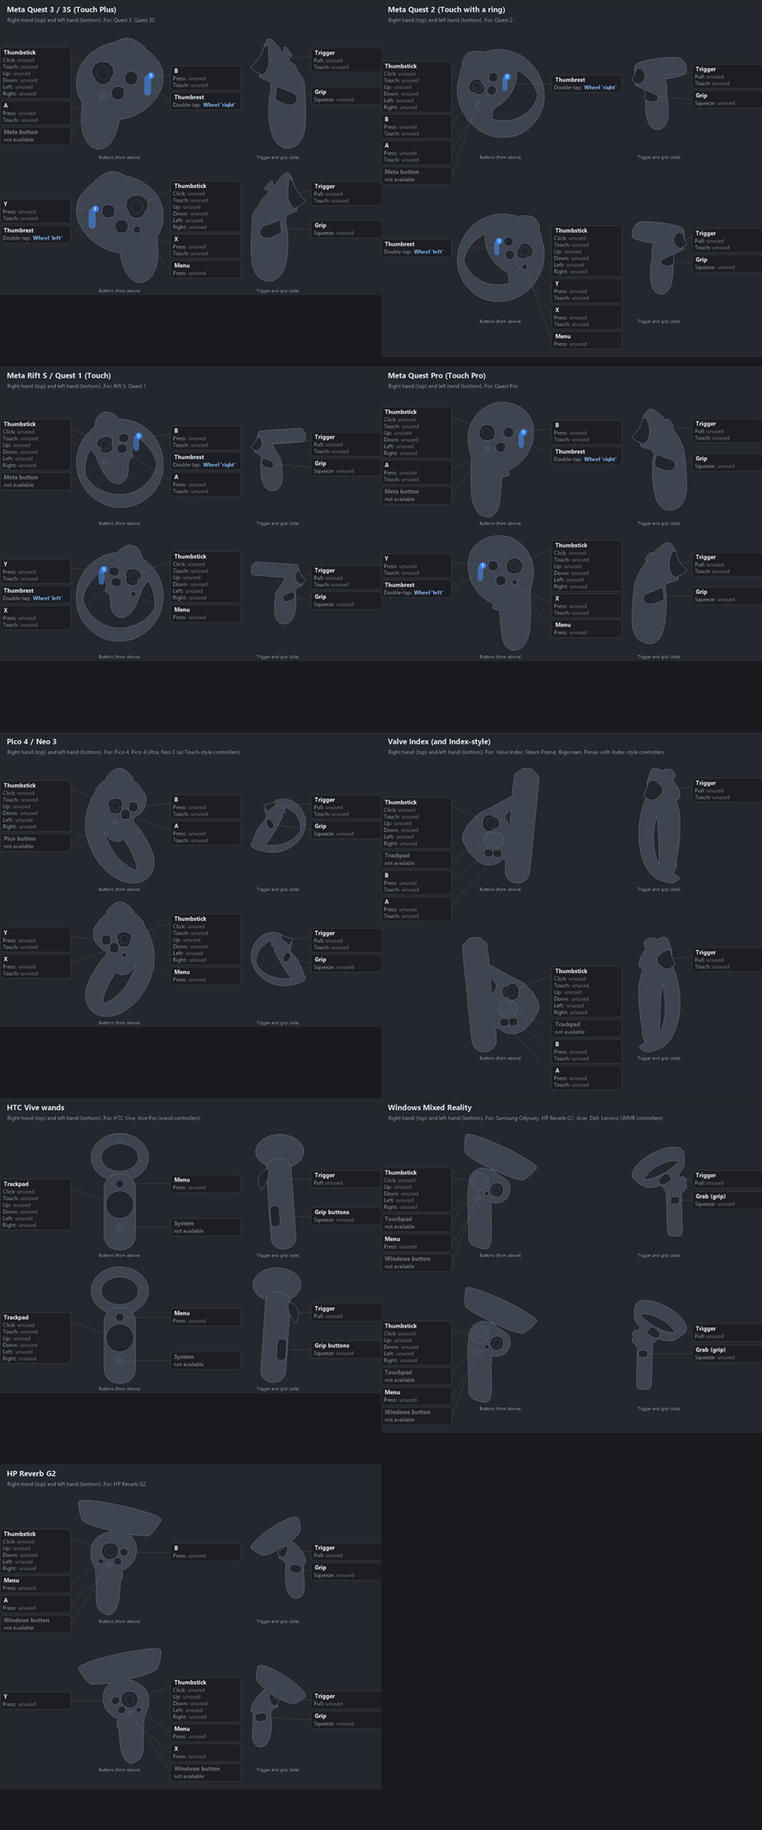
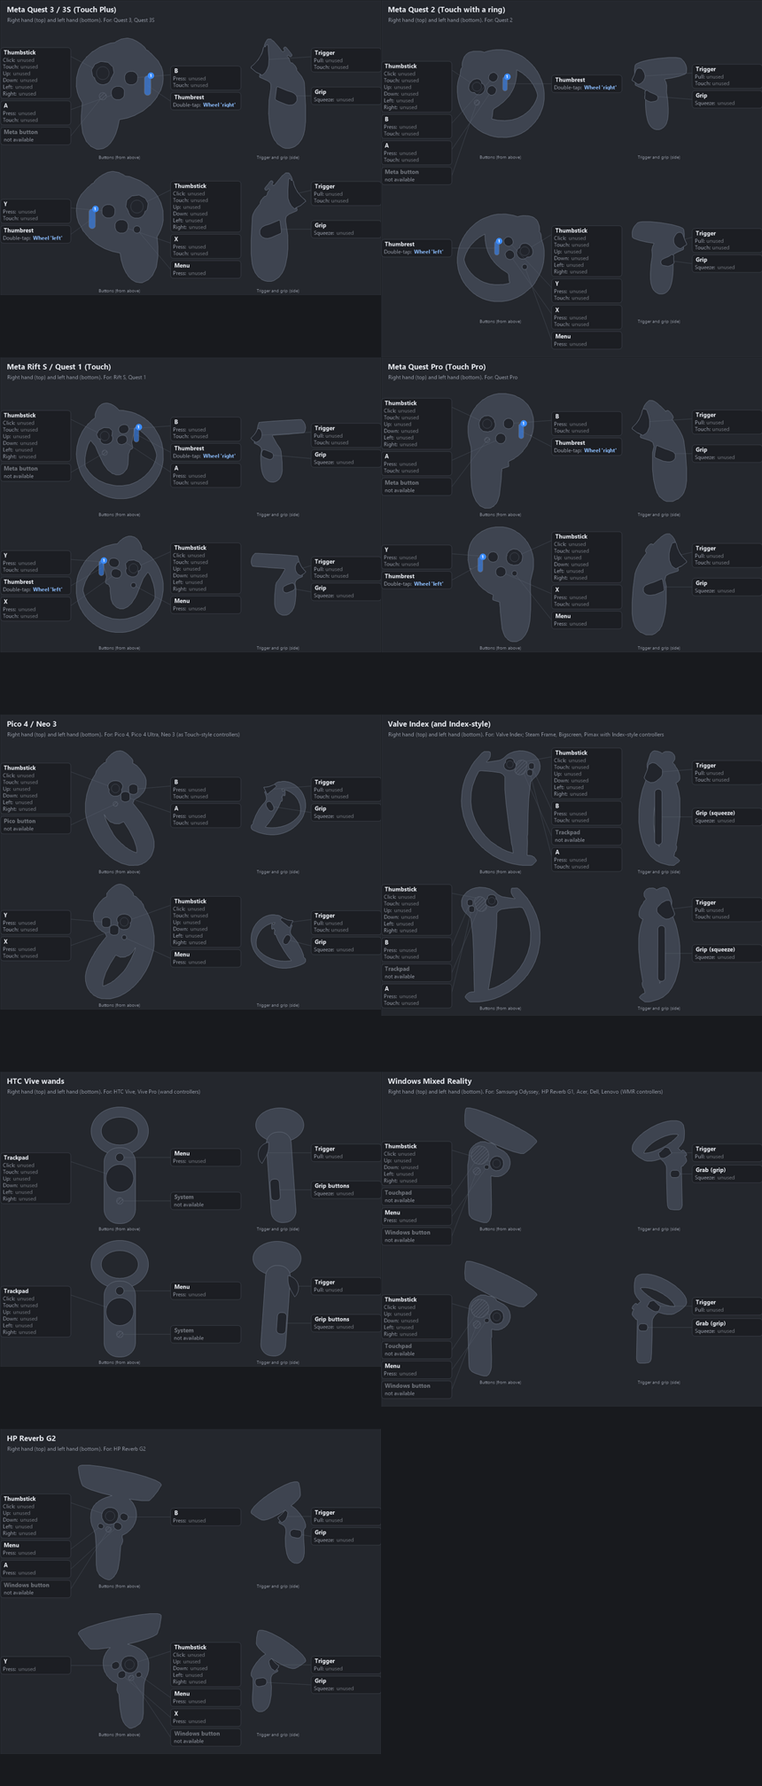
Controller pictures: the Index pictured across the controller (head up, handle down, strap beside it), its grip estimated along the handle; the tool writes nothing unless every model is there

diff --git a/editor/ControllerSilhouettes.g.cs b/editor/ControllerSilhouettes.g.cs
@@ -114,23 +114,25 @@ public static partial class ControllerSilhouettes
                 new("grip", ControllerView.Side, new float[][] { new float[] { 44.1f, 115.6f, 46.0f, 115.6f, 47.1f, 116.0f, 49.4f, 117.7f, 52.0f, 121.6f, 54.4f, 126.1f, 55.2f, 129.3f, 55.0f, 132.1f, 53.9f, 134.1f, 51.6f, 135.8f, 50.3f, 136.2f, 48.1f, 136.2f, 45.5f, 135.0f, 43.2f, 132.8f, 39.1f, 126.3f, 38.5f, 124.0f, 38.5f, 120.5f, 39.3f, 119.3f, 39.3f, 118.8f, 41.0f, 116.9f } }, false),
                 new("system", ControllerView.Top, new float[][] { new float[] { 95.59f, 121.05f, 95.418f, 122.355f, 94.915f, 123.57f, 94.114f, 124.614f, 93.07f, 125.415f, 91.854f, 125.918f, 90.55f, 126.09f, 89.246f, 125.918f, 88.03f, 125.415f, 86.986f, 124.614f, 86.185f, 123.57f, 85.682f, 122.355f, 85.51f, 121.05f, 85.682f, 119.746f, 86.185f, 118.53f, 86.986f, 117.486f, 88.03f, 116.685f, 89.246f, 116.182f, 90.55f, 116.01f, 91.854f, 116.182f, 93.07f, 116.685f, 94.114f, 117.486f, 94.915f, 118.53f, 95.418f, 119.746f } }, true),
             }),
-        ["index/left"] = new Silhouette(new float[][] { new float[] { 48.3f, 6.0f, 54.2f, 6.4f, 66.4f, 16.6f, 68.8f, 17.8f, 69.9f, 19.8f, 74.6f, 54.7f, 74.3f, 65.0f, 114.0f, 86.6f, 114.3f, 87.4f, 118.3f, 88.9f, 118.7f, 89.7f, 131.2f, 96.0f, 134.4f, 96.8f, 137.9f, 99.1f, 141.9f, 100.3f, 150.5f, 105.8f, 168.2f, 123.5f, 170.5f, 126.7f, 174.5f, 133.3f, 176.1f, 138.1f, 178.0f, 140.0f, 181.2f, 145.9f, 182.7f, 152.6f, 182.7f, 159.3f, 181.2f, 165.6f, 178.8f, 170.7f, 176.1f, 173.8f, 174.1f, 179.3f, 171.3f, 184.0f, 167.4f, 188.4f, 167.4f, 189.2f, 163.9f, 192.3f, 163.9f, 193.1f, 159.9f, 196.6f, 159.9f, 197.4f, 150.9f, 206.4f, 145.0f, 210.4f, 133.2f, 214.7f, 121.0f, 215.1f, 114.7f, 213.9f, 107.3f, 211.2f, 98.2f, 205.3f, 95.1f, 201.7f, 91.5f, 204.1f, 89.2f, 206.4f, 90.8f, 230.8f, 88.8f, 238.7f, 84.5f, 245.4f, 80.2f, 249.3f, 74.3f, 252.4f, 68.0f, 254.0f, 59.3f, 254.0f, 50.7f, 251.2f, 42.8f, 244.2f, 38.1f, 234.0f, 35.3f, 213.5f, 17.3f, 33.1f, 17.7f, 24.1f, 30.6f, 9.1f, 30.6f, 8.4f, 32.6f, 7.6f }, new float[] { 77.8f, 95.2f, 77.4f, 98.0f, 80.2f, 125.1f, 80.5f, 127.8f, 81.3f, 127.8f, 83.7f, 126.7f, 86.4f, 120.4f, 89.6f, 116.0f, 90.8f, 113.3f, 90.8f, 109.8f, 88.4f, 105.0f } },
+        ["index/left"] = new Silhouette(new float[][] { new float[] { 54.3f, 6.0f, 66.1f, 6.8f, 76.3f, 9.5f, 85.3f, 14.2f, 94.3f, 22.1f, 102.6f, 26.4f, 130.0f, 30.7f, 131.2f, 30.3f, 126.9f, 26.4f, 123.0f, 19.3f, 122.2f, 15.0f, 123.0f, 8.7f, 124.1f, 8.0f, 135.9f, 7.6f, 141.4f, 11.5f, 158.3f, 30.7f, 158.7f, 32.3f, 162.6f, 37.4f, 167.3f, 46.4f, 168.1f, 46.8f, 176.7f, 65.3f, 181.4f, 79.8f, 183.4f, 90.0f, 185.0f, 104.9f, 184.6f, 126.5f, 180.6f, 148.1f, 174.4f, 166.5f, 168.1f, 179.4f, 157.5f, 196.3f, 155.5f, 197.9f, 150.4f, 204.9f, 134.3f, 220.3f, 117.1f, 232.8f, 99.8f, 241.8f, 86.9f, 246.9f, 74.3f, 250.5f, 59.4f, 253.2f, 51.5f, 254.0f, 34.7f, 254.0f, 31.1f, 252.8f, 23.7f, 245.4f, 22.9f, 242.2f, 26.0f, 237.5f, 31.5f, 233.6f, 36.2f, 232.4f, 42.9f, 232.0f, 42.1f, 204.2f, 42.1f, 192.0f, 42.9f, 191.2f, 42.1f, 191.2f, 41.7f, 184.9f, 40.9f, 142.2f, 39.4f, 109.6f, 35.1f, 72.3f, 32.7f, 70.7f, 31.9f, 69.2f, 21.7f, 59.4f, 19.0f, 55.4f, 15.4f, 46.8f, 15.0f, 35.8f, 17.0f, 28.8f, 19.4f, 24.1f, 26.4f, 16.2f, 34.3f, 11.1f, 39.0f, 9.1f, 45.7f, 7.2f }, new float[] { 141.4f, 49.2f, 118.6f, 51.1f, 101.8f, 53.5f, 95.9f, 56.6f, 91.6f, 61.7f, 91.2f, 91.5f, 87.6f, 129.6f, 81.8f, 175.1f, 73.1f, 227.3f, 85.7f, 223.4f, 98.6f, 217.5f, 99.0f, 216.7f, 108.4f, 211.6f, 109.2f, 210.4f, 113.5f, 208.1f, 121.4f, 202.2f, 135.1f, 188.5f, 135.1f, 187.7f, 141.0f, 181.0f, 150.4f, 166.1f, 158.3f, 148.4f, 163.0f, 131.6f, 164.2f, 122.2f, 164.6f, 104.1f, 163.0f, 91.2f, 161.0f, 82.1f, 157.5f, 71.5f, 151.2f, 57.0f, 146.9f, 50.3f } },
             new float[][] { new float[] { 76.0f, 6.0f, 73.2f, 6.0f, 65.8f, 8.0f, 59.5f, 11.1f, 59.1f, 11.9f, 56.0f, 9.1f, 51.3f, 7.6f, 43.0f, 8.0f, 37.1f, 10.3f, 33.2f, 14.6f, 31.6f, 18.9f, 32.0f, 25.2f, 36.4f, 31.9f, 31.6f, 36.6f, 30.1f, 40.5f, 26.2f, 46.0f, 23.0f, 52.7f, 21.1f, 59.4f, 20.7f, 66.0f, 21.8f, 70.0f, 26.5f, 74.3f, 29.3f, 74.7f, 24.6f, 89.2f, 21.1f, 107.2f, 20.3f, 115.9f, 20.3f, 141.0f, 23.8f, 179.1f, 28.9f, 208.9f, 28.9f, 210.4f, 27.7f, 212.4f, 27.7f, 216.3f, 29.3f, 222.2f, 30.5f, 224.2f, 31.6f, 224.6f, 33.6f, 233.6f, 33.6f, 234.8f, 29.3f, 236.3f, 25.0f, 239.5f, 21.4f, 243.8f, 24.2f, 247.3f, 33.6f, 254.0f, 42.2f, 254.0f, 46.9f, 253.2f, 62.6f, 248.5f, 73.2f, 243.4f, 84.2f, 234.0f, 91.7f, 223.8f, 99.1f, 208.9f, 105.4f, 188.1f, 107.8f, 177.1f, 109.7f, 159.8f, 109.3f, 132.4f, 107.8f, 118.6f, 103.5f, 97.0f, 100.7f, 86.8f, 94.4f, 70.0f, 94.4f, 68.8f, 95.2f, 68.8f, 97.6f, 65.6f, 97.6f, 62.1f, 91.3f, 45.6f, 92.1f, 37.4f, 91.7f, 34.3f, 84.2f, 11.9f, 81.5f, 8.4f }, new float[] { 71.3f, 108.4f, 74.0f, 118.2f, 76.4f, 134.7f, 77.6f, 150.0f, 77.6f, 165.3f, 76.8f, 175.5f, 74.0f, 191.2f, 69.7f, 205.3f, 66.2f, 213.2f, 65.4f, 213.6f, 68.1f, 135.1f } },
             new SilhouettePart[] {
-                new("primary", ControllerView.Top, new float[][] { new float[] { 106.1f, 181.7f, 112.8f, 182.1f, 114.3f, 182.9f, 116.7f, 186.0f, 117.5f, 189.2f, 117.1f, 193.5f, 115.1f, 197.0f, 112.8f, 198.6f, 102.9f, 198.6f, 101.0f, 197.4f, 98.6f, 194.3f, 98.2f, 187.6f, 99.4f, 184.8f, 102.9f, 182.1f } }, false),
-                new("secondary", ControllerView.Top, new float[][] { new float[] { 123.0f, 180.5f, 130.5f, 180.5f, 133.6f, 182.1f, 134.8f, 183.6f, 136.0f, 186.4f, 136.0f, 191.9f, 134.8f, 194.7f, 132.8f, 196.6f, 130.9f, 197.4f, 121.8f, 197.4f, 118.3f, 194.7f, 116.7f, 190.3f, 117.1f, 186.0f, 120.2f, 181.7f } }, false),
-                new("thumbstick", ControllerView.Top, new float[][] { new float[] { 123.8f, 105.8f, 129.7f, 106.6f, 134.8f, 110.2f, 137.5f, 114.5f, 139.5f, 121.5f, 139.1f, 129.4f, 136.4f, 136.1f, 133.2f, 139.6f, 126.5f, 142.4f, 122.2f, 142.0f, 119.5f, 140.8f, 115.5f, 136.9f, 110.8f, 136.9f, 108.1f, 135.7f, 104.5f, 131.8f, 102.6f, 125.9f, 102.6f, 121.5f, 103.3f, 118.8f, 107.3f, 113.3f, 112.0f, 111.3f, 114.7f, 111.7f, 117.9f, 108.2f } }, false),
-                new("touchpad", ControllerView.Top, new float[][] { new float[] { 119.5f, 144.0f, 128.1f, 144.3f, 128.5f, 145.1f, 130.9f, 145.9f, 134.8f, 150.6f, 136.7f, 155.7f, 137.1f, 160.5f, 136.0f, 166.4f, 134.4f, 169.5f, 131.2f, 173.0f, 126.5f, 175.4f, 110.4f, 176.6f, 103.3f, 176.6f, 101.4f, 175.8f, 97.1f, 171.9f, 94.3f, 166.0f, 93.9f, 157.3f, 96.7f, 150.2f, 99.0f, 147.5f, 102.2f, 145.5f } }, false),
+                new("primary", ControllerView.Top, new float[][] { new float[] { 35.8f, 46.4f, 38.6f, 46.4f, 41.3f, 47.6f, 43.3f, 50.3f, 42.9f, 57.4f, 41.3f, 59.4f, 38.6f, 60.5f, 33.5f, 59.8f, 31.1f, 57.0f, 31.1f, 50.3f, 33.5f, 47.2f } }, false),
+                new("secondary", ControllerView.Top, new float[][] { new float[] { 31.5f, 32.3f, 36.6f, 32.7f, 39.8f, 36.2f, 39.8f, 42.1f, 38.6f, 44.5f, 37.0f, 45.6f, 31.1f, 46.0f, 27.6f, 42.9f, 27.6f, 35.8f, 28.8f, 33.9f } }, false),
+                new("thumbstick", ControllerView.Top, new float[][] { new float[] { 77.8f, 22.1f, 83.3f, 22.1f, 87.6f, 24.4f, 89.6f, 27.6f, 89.6f, 31.5f, 92.0f, 33.5f, 93.1f, 35.8f, 93.5f, 39.4f, 91.6f, 44.1f, 85.7f, 48.0f, 79.0f, 48.8f, 73.1f, 47.2f, 68.8f, 43.7f, 67.2f, 40.5f, 67.6f, 34.6f, 68.4f, 34.3f, 68.8f, 32.7f, 71.6f, 30.7f, 71.2f, 28.8f, 72.3f, 25.6f, 74.3f, 23.7f } }, false),
+                new("touchpad", ControllerView.Top, new float[][] { new float[] { 51.5f, 26.4f, 56.6f, 26.4f, 60.6f, 27.6f, 64.5f, 30.7f, 65.7f, 33.1f, 69.2f, 46.8f, 69.2f, 50.7f, 67.6f, 53.9f, 65.3f, 56.2f, 60.6f, 58.2f, 54.7f, 57.8f, 51.1f, 56.2f, 48.0f, 53.5f, 46.4f, 49.9f, 42.9f, 36.2f, 42.9f, 33.5f, 45.7f, 29.2f } }, false),
                 new("trigger", ControllerView.Side, new float[][] { new float[] { 85.0f, 34.3f, 79.9f, 34.6f, 70.1f, 39.7f, 60.3f, 49.9f, 59.5f, 53.1f, 59.9f, 59.0f, 63.4f, 63.7f, 71.3f, 70.7f, 77.6f, 74.3f, 79.5f, 74.7f, 85.8f, 74.3f, 93.6f, 70.0f, 96.8f, 67.2f, 97.6f, 65.6f, 97.6f, 62.1f, 91.3f, 45.6f, 89.7f, 38.2f, 87.0f, 35.0f } }, false),
+                new("grip", ControllerView.Side, new float[][] { new float[] { 77.646f, 149.11f, 77.372f, 203.212f, 76.568f, 205.152f, 75.289f, 206.818f, 73.623f, 208.097f, 71.682f, 208.901f, 69.6f, 209.175f, 67.517f, 208.901f, 65.577f, 208.097f, 63.91f, 206.818f, 62.632f, 205.152f, 61.828f, 203.212f, 61.554f, 201.129f, 61.828f, 95.008f, 62.632f, 93.067f, 63.91f, 91.401f, 65.577f, 90.122f, 67.517f, 89.318f, 69.6f, 89.044f, 71.682f, 89.318f, 73.623f, 90.122f, 75.289f, 91.401f, 76.568f, 93.067f, 77.372f, 95.008f } }, true),
             }),
-        ["index/right"] = new Silhouette(new float[][] { new float[] { 146.2f, 6.0f, 151.7f, 6.0f, 168.6f, 8.0f, 180.4f, 21.7f, 180.4f, 22.5f, 182.3f, 24.1f, 182.7f, 31.9f, 165.0f, 209.6f, 161.9f, 234.0f, 157.2f, 244.2f, 149.3f, 251.2f, 140.7f, 254.0f, 132.0f, 254.0f, 125.7f, 252.4f, 119.8f, 249.3f, 113.6f, 243.0f, 111.2f, 238.7f, 109.2f, 230.8f, 110.8f, 206.4f, 108.8f, 204.5f, 104.9f, 201.7f, 101.8f, 205.3f, 93.5f, 210.8f, 85.7f, 213.9f, 79.4f, 215.1f, 66.4f, 214.7f, 59.7f, 212.7f, 54.2f, 210.0f, 52.2f, 208.0f, 49.1f, 206.4f, 45.2f, 202.1f, 44.4f, 202.1f, 29.1f, 184.8f, 18.1f, 163.2f, 17.3f, 159.3f, 17.3f, 152.2f, 20.0f, 143.2f, 22.8f, 138.5f, 24.3f, 137.3f, 25.5f, 133.3f, 29.5f, 126.7f, 47.9f, 107.0f, 53.8f, 102.7f, 82.1f, 89.3f, 82.5f, 88.5f, 125.7f, 65.0f, 125.0f, 60.2f, 125.4f, 53.9f, 129.7f, 20.5f, 131.2f, 17.8f, 145.0f, 7.6f }, new float[] { 122.6f, 95.2f, 111.2f, 105.4f, 108.8f, 110.9f, 109.2f, 113.7f, 114.0f, 121.2f, 116.3f, 126.7f, 118.7f, 127.8f, 119.5f, 127.8f } },
+        ["index/right"] = new Silhouette(new float[][] { new float[] { 140.2f, 6.0f, 149.6f, 6.4f, 157.5f, 8.0f, 164.9f, 10.7f, 170.4f, 13.8f, 173.6f, 16.2f, 180.6f, 24.1f, 183.8f, 30.7f, 185.3f, 39.0f, 184.6f, 47.2f, 181.0f, 55.4f, 178.3f, 59.4f, 169.3f, 68.0f, 166.9f, 71.1f, 164.9f, 72.3f, 160.6f, 109.6f, 159.1f, 142.9f, 158.3f, 186.1f, 157.5f, 191.2f, 157.9f, 204.6f, 157.1f, 232.0f, 163.8f, 232.4f, 168.5f, 233.6f, 168.9f, 234.4f, 172.4f, 235.9f, 177.1f, 242.2f, 176.7f, 245.0f, 168.9f, 252.8f, 165.3f, 254.0f, 148.5f, 254.0f, 140.6f, 253.2f, 125.7f, 250.5f, 113.1f, 246.9f, 99.4f, 241.4f, 82.9f, 232.8f, 65.7f, 220.3f, 63.3f, 217.5f, 59.4f, 214.8f, 46.0f, 200.6f, 44.5f, 197.9f, 42.5f, 196.3f, 31.9f, 179.4f, 26.4f, 168.5f, 19.4f, 148.1f, 15.4f, 126.5f, 14.7f, 114.3f, 16.2f, 93.5f, 18.6f, 80.2f, 22.1f, 68.4f, 25.6f, 59.4f, 37.4f, 37.4f, 43.3f, 28.8f, 58.6f, 11.5f, 64.1f, 7.6f, 73.5f, 7.6f, 77.0f, 8.7f, 77.8f, 13.5f, 77.0f, 19.3f, 74.3f, 24.8f, 68.8f, 30.3f, 69.6f, 30.7f, 95.9f, 26.8f, 99.8f, 25.6f, 105.7f, 22.1f, 113.5f, 15.0f, 119.4f, 11.5f, 128.4f, 8.0f }, new float[] { 57.4f, 49.2f, 53.1f, 50.3f, 51.9f, 51.5f, 45.7f, 63.7f, 39.0f, 82.1f, 36.2f, 96.6f, 35.4f, 116.3f, 37.0f, 131.6f, 40.6f, 144.9f, 44.5f, 155.5f, 49.6f, 166.1f, 59.0f, 181.0f, 64.9f, 187.7f, 64.9f, 188.5f, 78.6f, 202.2f, 90.8f, 210.4f, 91.6f, 211.6f, 101.0f, 216.7f, 101.4f, 217.5f, 114.3f, 223.4f, 126.9f, 227.3f, 124.9f, 212.4f, 123.3f, 207.7f, 121.4f, 191.6f, 118.2f, 174.7f, 111.6f, 122.2f, 108.8f, 90.8f, 108.8f, 62.1f, 103.7f, 56.2f, 98.2f, 53.5f, 81.4f, 51.1f } },
             new float[][] { new float[] { 54.2f, 6.0f, 60.9f, 6.8f, 67.2f, 9.1f, 70.7f, 11.5f, 71.9f, 11.5f, 74.2f, 9.1f, 78.5f, 7.6f, 85.2f, 7.6f, 89.1f, 8.4f, 93.1f, 10.3f, 97.0f, 14.6f, 98.6f, 18.9f, 98.6f, 23.7f, 97.8f, 26.0f, 93.8f, 31.9f, 98.6f, 36.6f, 99.7f, 39.7f, 103.7f, 45.2f, 107.2f, 52.7f, 109.1f, 59.4f, 109.5f, 66.0f, 108.4f, 70.0f, 106.0f, 71.9f, 106.0f, 72.7f, 103.7f, 74.3f, 101.3f, 74.7f, 101.3f, 76.2f, 104.0f, 83.3f, 107.2f, 95.1f, 109.5f, 109.6f, 109.5f, 148.4f, 106.0f, 182.2f, 101.3f, 208.9f, 101.3f, 210.4f, 102.5f, 212.4f, 102.5f, 216.3f, 101.3f, 221.4f, 100.1f, 223.8f, 98.6f, 224.6f, 96.6f, 233.6f, 97.0f, 234.8f, 101.7f, 236.7f, 104.8f, 239.1f, 108.8f, 243.0f, 108.8f, 244.2f, 105.6f, 247.7f, 103.7f, 248.5f, 96.6f, 254.0f, 85.6f, 253.6f, 67.6f, 248.5f, 57.7f, 243.8f, 46.4f, 234.4f, 38.5f, 223.8f, 31.1f, 208.9f, 26.0f, 192.4f, 22.8f, 179.1f, 20.5f, 159.8f, 20.9f, 132.0f, 22.4f, 118.6f, 26.7f, 97.0f, 29.1f, 88.0f, 35.8f, 70.0f, 35.8f, 68.8f, 35.0f, 68.8f, 32.6f, 65.6f, 32.2f, 63.7f, 38.9f, 46.8f, 39.3f, 44.1f, 38.5f, 41.3f, 38.5f, 34.3f, 46.0f, 11.9f, 49.9f, 7.6f }, new float[] { 58.9f, 108.4f, 56.2f, 118.2f, 53.8f, 134.7f, 52.6f, 149.2f, 52.6f, 165.3f, 54.2f, 181.0f, 57.7f, 197.1f, 60.5f, 205.3f, 62.1f, 207.7f, 63.2f, 211.6f, 64.8f, 213.6f, 64.0f, 177.1f, 62.1f, 134.3f } },
             new SilhouettePart[] {
-                new("primary", ControllerView.Top, new float[][] { new float[] { 89.2f, 181.7f, 97.1f, 182.1f, 99.0f, 183.3f, 101.4f, 186.4f, 101.8f, 193.1f, 100.2f, 196.2f, 97.1f, 198.6f, 87.2f, 198.6f, 85.3f, 197.4f, 83.3f, 194.7f, 82.5f, 191.9f, 83.3f, 186.0f, 85.3f, 183.3f } }, false),
-                new("secondary", ControllerView.Top, new float[][] { new float[] { 69.5f, 180.5f, 78.6f, 180.9f, 81.7f, 183.6f, 82.9f, 186.0f, 83.3f, 190.3f, 81.7f, 194.7f, 79.8f, 196.6f, 78.2f, 197.4f, 68.8f, 197.4f, 65.2f, 194.7f, 64.0f, 191.9f, 64.0f, 186.4f, 66.0f, 182.5f } }, false),
-                new("thumbstick", ControllerView.Top, new float[][] { new float[] { 73.9f, 105.8f, 80.2f, 107.0f, 82.5f, 108.6f, 84.9f, 111.7f, 88.0f, 111.3f, 92.7f, 113.3f, 95.9f, 117.2f, 97.4f, 122.7f, 97.4f, 125.9f, 96.3f, 130.2f, 91.9f, 135.7f, 89.2f, 136.9f, 84.5f, 136.9f, 81.3f, 140.4f, 77.8f, 142.0f, 74.6f, 142.4f, 69.9f, 141.6f, 65.2f, 138.1f, 61.7f, 132.6f, 60.5f, 127.8f, 60.9f, 118.4f, 63.3f, 112.9f, 68.0f, 107.8f } }, false),
-                new("touchpad", ControllerView.Top, new float[][] { new float[] { 73.5f, 144.0f, 96.3f, 145.1f, 99.4f, 146.3f, 102.2f, 148.7f, 105.3f, 154.2f, 106.1f, 157.7f, 106.1f, 163.6f, 103.7f, 170.7f, 99.8f, 175.0f, 96.7f, 176.6f, 73.1f, 175.4f, 69.1f, 173.4f, 66.4f, 170.7f, 63.3f, 163.6f, 63.3f, 155.7f, 66.8f, 148.3f, 69.1f, 145.9f } }, false),
+                new("primary", ControllerView.Top, new float[][] { new float[] { 161.4f, 46.4f, 165.7f, 46.8f, 168.9f, 49.9f, 168.9f, 57.0f, 166.5f, 59.8f, 163.8f, 60.5f, 158.7f, 59.4f, 156.7f, 56.2f, 156.7f, 50.3f, 158.7f, 47.6f } }, false),
+                new("secondary", ControllerView.Top, new float[][] { new float[] { 164.6f, 32.3f, 168.5f, 32.3f, 170.8f, 33.5f, 172.4f, 35.8f, 172.4f, 42.9f, 168.9f, 46.0f, 164.2f, 46.0f, 160.6f, 43.3f, 160.2f, 36.2f, 162.6f, 33.1f } }, false),
+                new("thumbstick", ControllerView.Top, new float[][] { new float[] { 116.7f, 22.1f, 122.2f, 22.1f, 125.7f, 23.7f, 128.4f, 26.8f, 128.8f, 30.7f, 131.2f, 32.7f, 132.8f, 35.8f, 132.8f, 40.5f, 131.2f, 43.7f, 126.9f, 47.2f, 123.3f, 48.4f, 119.0f, 48.8f, 114.3f, 48.0f, 109.6f, 45.2f, 106.9f, 40.9f, 106.9f, 36.2f, 108.0f, 33.5f, 110.4f, 31.5f, 110.4f, 27.6f, 111.2f, 26.0f, 112.4f, 24.4f } }, false),
+                new("touchpad", ControllerView.Top, new float[][] { new float[] { 143.4f, 26.4f, 148.5f, 26.4f, 154.0f, 28.8f, 156.7f, 32.3f, 157.1f, 36.2f, 153.6f, 49.9f, 152.0f, 53.5f, 146.5f, 57.4f, 139.8f, 58.2f, 134.7f, 56.2f, 132.4f, 53.9f, 130.8f, 50.7f, 130.8f, 46.8f, 135.5f, 30.7f, 139.4f, 27.6f } }, false),
                 new("trigger", ControllerView.Side, new float[][] { new float[] { 49.5f, 31.9f, 53.8f, 32.3f, 57.7f, 33.9f, 69.1f, 44.1f, 71.5f, 47.2f, 71.5f, 56.2f, 69.9f, 60.9f, 63.6f, 67.6f, 62.8f, 67.6f, 58.5f, 71.5f, 53.0f, 74.3f, 46.0f, 74.7f, 40.5f, 72.3f, 35.0f, 68.8f, 32.6f, 65.6f, 32.2f, 63.7f, 38.9f, 46.8f, 40.9f, 37.8f, 42.8f, 35.4f } }, false),
+                new("grip", ControllerView.Side, new float[][] { new float[] { 70.785f, 149.11f, 70.512f, 203.238f, 69.712f, 205.17f, 68.439f, 206.829f, 66.78f, 208.102f, 64.848f, 208.902f, 62.775f, 209.175f, 60.702f, 208.902f, 58.77f, 208.102f, 57.111f, 206.829f, 55.838f, 205.17f, 55.038f, 203.238f, 54.765f, 201.165f, 55.038f, 94.981f, 55.838f, 93.049f, 57.111f, 91.39f, 58.77f, 90.117f, 60.702f, 89.317f, 62.775f, 89.044f, 64.848f, 89.317f, 66.78f, 90.117f, 68.439f, 91.39f, 69.712f, 93.049f, 70.512f, 94.981f } }, true),
             }),
         ["wmr/left"] = new Silhouette(new float[][] { new float[] { 25.9f, 6.0f, 33.4f, 6.0f, 38.1f, 6.8f, 61.3f, 13.9f, 83.3f, 22.5f, 98.2f, 29.6f, 99.4f, 29.6f, 104.1f, 32.3f, 105.3f, 32.3f, 110.8f, 35.5f, 112.0f, 35.5f, 141.1f, 50.4f, 141.5f, 51.2f, 143.8f, 52.0f, 144.2f, 52.8f, 146.6f, 53.6f, 147.0f, 54.3f, 157.2f, 59.8f, 159.9f, 62.2f, 161.5f, 62.6f, 169.8f, 68.5f, 176.8f, 75.2f, 177.2f, 76.7f, 178.0f, 77.1f, 178.0f, 79.5f, 173.7f, 84.2f, 173.7f, 85.0f, 163.9f, 94.4f, 151.3f, 103.9f, 149.3f, 104.6f, 138.7f, 103.9f, 121.0f, 98.4f, 102.9f, 91.3f, 87.2f, 83.8f, 86.0f, 83.8f, 80.5f, 80.7f, 79.4f, 80.7f, 44.4f, 62.2f, 31.8f, 53.9f, 25.1f, 48.1f, 23.2f, 44.9f, 22.0f, 30.8f, 23.6f, 10.7f }, new float[] { 58.9f, 78.7f, 67.2f, 79.1f, 71.9f, 81.1f, 80.2f, 81.9f, 88.0f, 86.2f, 90.4f, 88.5f, 90.4f, 90.9f, 106.9f, 99.5f, 113.6f, 105.4f, 118.7f, 113.7f, 120.6f, 121.9f, 120.6f, 128.2f, 118.3f, 136.9f, 113.6f, 144.0f, 108.1f, 149.1f, 105.3f, 150.2f, 103.7f, 151.8f, 94.7f, 154.6f, 88.4f, 154.6f, 80.2f, 153.0f, 80.5f, 169.9f, 79.0f, 172.6f, 80.2f, 214.3f, 79.8f, 235.5f, 78.2f, 242.2f, 75.8f, 247.7f, 73.9f, 250.9f, 69.9f, 254.0f, 63.6f, 254.0f, 56.6f, 252.4f, 44.0f, 248.1f, 37.3f, 244.6f, 33.0f, 239.5f, 31.4f, 234.0f, 31.0f, 228.8f, 28.7f, 151.4f, 28.7f, 129.8f, 32.2f, 101.9f, 36.1f, 93.3f, 41.2f, 87.4f, 50.7f, 81.1f, 54.6f, 80.3f, 55.4f, 79.1f } },
             new float[][] { new float[] { 39.6f, 33.6f, 27.7f, 33.6f, 22.2f, 34.8f, 17.0f, 37.5f, 13.0f, 42.7f, 11.2f, 51.9f, 10.6f, 59.8f, 11.2f, 71.2f, 12.1f, 76.0f, 16.4f, 84.0f, 24.6f, 93.5f, 21.3f, 95.6f, 17.0f, 100.2f, 16.4f, 98.1f, 15.2f, 97.1f, 13.6f, 97.1f, 11.8f, 98.1f, 7.8f, 102.3f, 6.0f, 106.3f, 6.0f, 107.8f, 6.9f, 109.4f, 10.0f, 109.4f, 6.9f, 115.5f, 6.0f, 119.8f, 6.3f, 121.9f, 8.8f, 125.6f, 13.0f, 130.2f, 13.0f, 130.8f, 15.2f, 132.0f, 17.0f, 132.3f, 17.3f, 134.1f, 15.5f, 216.1f, 16.4f, 220.6f, 18.2f, 224.0f, 20.1f, 225.5f, 23.4f, 226.4f, 32.9f, 226.4f, 41.8f, 225.2f, 45.4f, 222.5f, 47.3f, 217.3f, 48.2f, 205.0f, 49.4f, 165.6f, 49.7f, 136.0f, 50.3f, 131.4f, 54.6f, 123.7f, 58.3f, 120.1f, 58.3f, 119.5f, 63.2f, 116.4f, 74.5f, 119.8f, 82.4f, 121.0f, 91.0f, 121.0f, 96.5f, 119.8f, 108.7f, 113.0f, 114.8f, 108.4f, 117.0f, 106.0f, 117.6f, 106.0f, 122.8f, 99.9f, 124.0f, 95.0f, 123.1f, 87.0f, 119.4f, 79.7f, 116.1f, 75.7f, 115.4f, 74.2f, 112.7f, 71.8f, 112.7f, 71.2f, 106.9f, 65.3f, 106.3f, 65.3f, 99.2f, 58.9f, 83.6f, 48.8f, 69.6f, 41.8f, 57.1f, 37.2f, 47.6f, 34.8f }, new float[] { 35.0f, 62.9f, 41.5f, 63.8f, 49.7f, 66.0f, 52.8f, 67.5f, 58.0f, 69.0f, 73.3f, 77.0f, 75.7f, 79.1f, 81.2f, 82.5f, 90.4f, 90.7f, 90.4f, 91.3f, 93.1f, 93.8f, 96.2f, 98.1f, 98.3f, 102.3f, 98.3f, 103.9f, 88.5f, 102.9f, 78.1f, 100.2f, 68.4f, 96.5f, 60.7f, 92.6f, 59.8f, 92.6f, 48.5f, 86.1f, 43.0f, 81.9f, 39.6f, 80.0f, 38.1f, 78.2f, 33.5f, 74.8f, 25.9f, 67.2f, 25.3f, 65.7f, 23.7f, 64.1f, 27.7f, 62.9f } },

diff --git a/tools/ControllerSilhouettes/Program.cs b/tools/ControllerSilhouettes/Program.cs
@@ -18,20 +18,20 @@ namespace ControllerSilhouettes;
 static class Program
 {
     // WebXR profile folder -> our layout id (editor/ControllerLayouts.cs)
-    // topTurnDeg: an extra turn of the top view, for controllers whose buttons face along the handle (the head and
-    // strap are all you see from above, so there is no handle to stand upright).
-    static readonly (string profile, string id, bool hasThumbrest, float topTurnDeg)[] Profiles =
+    // topFromSide: for controllers whose buttons face along the handle (the Index): looking at the buttons shows only
+    // the head and strap, so the "top" picture looks across the controller instead (along its Y axis): head on
+    // top, handle down, strap beside it, which is how it is usually pictured.
+    static readonly (string profile, string id, bool hasThumbrest, bool topFromSide)[] Profiles =
     {
-        ("meta-quest-touch-plus", "quest3", true, 0),
-        ("oculus-touch-v3", "quest2", true, 0),
-        ("oculus-touch-v2", "rifts", true, 0),
-        ("meta-quest-touch-pro", "questpro", true, 0),
-        ("pico-4", "pico4", false, 0),
-        ("valve-index", "index", false, TopTurnIndex),
-        ("microsoft-mixed-reality", "wmr", false, 0),
-        ("hp-mixed-reality", "reverbg2", false, 0),
+        ("meta-quest-touch-plus", "quest3", true, false),
+        ("oculus-touch-v3", "quest2", true, false),
+        ("oculus-touch-v2", "rifts", true, false),
+        ("meta-quest-touch-pro", "questpro", true, false),
+        ("pico-4", "pico4", false, false),
+        ("valve-index", "index", false, true),
+        ("microsoft-mixed-reality", "wmr", false, false),
+        ("hp-mixed-reality", "reverbg2", false, false),
     };
-    static float TopTurnIndex => float.TryParse(Environment.GetEnvironmentVariable("SIL_INDEX_TURN"), out var t) ? t : -50;
 
     static int Main(string[] args)
     {
@@ -50,7 +50,7 @@ static class Program
         }
         Directory.CreateDirectory(preview);
         var results = new List<Traced>();
-        foreach (var (profile, id, hasThumbrest, topTurnDeg) in Profiles)
+        foreach (var (profile, id, hasThumbrest, topFromSide) in Profiles)
             foreach (string hand in new[] { "left", "right" })
             {
                 string file = Path.Combine(models, profile, hand + ".glb");
@@ -60,11 +60,16 @@ static class Program
                     continue;
                 }
                 var tris = Glb.Load(file);
-                var traced = Tracer.Trace(id, hand, tris, hasThumbrest, hand == "right" ? topTurnDeg : -topTurnDeg);
+                var traced = Tracer.Trace(id, hand, tris, hasThumbrest, topFromSide);
                 results.Add(traced);
                 Preview.Save(traced, Path.Combine(preview, $"{id}_{hand}.png"));
                 Console.WriteLine($"{id}/{hand}: {tris.Count} triangles, parts {string.Join(", ", traced.Parts.Select(p => p.Comp + (p.Estimated ? "*" : "")))}");
             }
+        if (results.Count < Profiles.Length * 2) // never replace the outlines with fewer than before
+        {
+            Console.WriteLine($"only {results.Count} of {Profiles.Length * 2} models found: nothing written (see README.md for where to get them)");
+            return 2;
+        }
         Emit.CSharp(results, Path.Combine(repo, "editor", "ControllerSilhouettes.g.cs"));
         Emit.Cpp(results, Path.Combine(repo, "layer", "src", "controller_silhouettes.inc"));
         return 0;
@@ -216,7 +221,7 @@ static class Tracer
     static readonly string[] SideParts = { "trigger", "grip" };
     const int Grid = 640; // mask size along the longer side
 
-    public static Traced Trace(string id, string hand, List<Tri> tris, bool hasThumbrest, float topTurnDeg)
+    public static Traced Trace(string id, string hand, List<Tri> tris, bool hasThumbrest, bool topFromSide)
     {
         Vector3 Centroid(IEnumerable<Tri> ts)
         {
@@ -249,11 +254,11 @@ static class Tracer
         var across = Vector3.Normalize(Vector3.Cross(up, faceN));
 
         // top view: looking at the face; side view: looking from the side, front (the face's direction... trigger) on the left
-        if (topTurnDeg != 0) // turn the top view's axes about the face
+        if (topFromSide) // across the controller (along Y), handle upright
         {
-            var turn = Quaternion.CreateFromAxisAngle(faceN, topTurnDeg * MathF.PI / 180);
-            across = Vector3.Transform(across, turn);
-            up = Vector3.Transform(up, turn);
+            faceN = -Vector3.UnitY;
+            up = handleAxis;
+            across = Vector3.Normalize(Vector3.Cross(up, faceN));
         }
         var topView = Project(tris, across, up, TopParts, Grid);
         var sideView = Project(tris, sideAcross, handleAxis, SideParts, Grid);
@@ -318,6 +323,16 @@ static class Tracer
             var pts = p.Loops.SelectMany(l => l).ToList();
             float x0 = pts.Min(q => q.X), y0 = pts.Min(q => q.Y), x1 = pts.Max(q => q.X), y1 = pts.Max(q => q.Y);
             return new RectangleF(x0, y0, x1 - x0, y1 - y0);
+        }
+        // A grip that is part of the body (the Index's squeeze sensor): along the front of the handle, below the trigger.
+        var trigger = t.Parts.FirstOrDefault(x => x.Comp == "trigger" && !x.Top);
+        if (trigger != null && !t.Parts.Any(x => x.Comp == "grip"))
+        {
+            var tp = trigger.Loops.SelectMany(l => l).ToList();
+            var body = t.Side.SelectMany(l => l).ToList();
+            float tx = tp.Average(q => q.X), ty = tp.Max(q => q.Y), bottom = body.Max(q => q.Y), width = body.Max(q => q.X) - body.Min(q => q.X);
+            float gx = tx + (t.Hand == "right" ? 1 : -1) * width * 0.12f, gTop = ty + (bottom - ty) * 0.08f, gBottom = ty + (bottom - ty) * 0.75f;
+            t.Parts.Add(new TracedPart("grip", false, new() { Pill(gx, (gTop + gBottom) / 2, width * 0.18f, gBottom - gTop) }, true));
         }
         var a = Box("primary");
         var b = Box("secondary");

diff --git a/tools/ControllerSilhouettes/README.md b/tools/ControllerSilhouettes/README.md
@@ -11,5 +11,6 @@ Only outlines are kept (no textures, no logos).
 
 The top view looks at the buttons with the handle down (WebXR grip space: the handle runs along Z); the side view
 keeps the handle upright with the trigger at the front. `SIL_AXES=<profile>` renders the six straight-on views of
-one model, to pick a turn for controllers like the Index (`topTurnDeg`).
+one model. The Index is pictured across the controller instead (`topFromSide`): its buttons face along the handle.
+Models go in `models/` here (ignored by git); the tool writes nothing unless every model is there.
 The models themselves are not kept in the repository.
